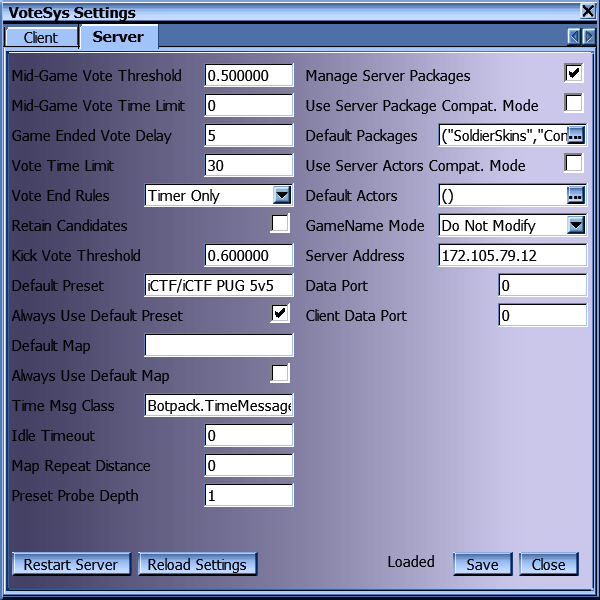
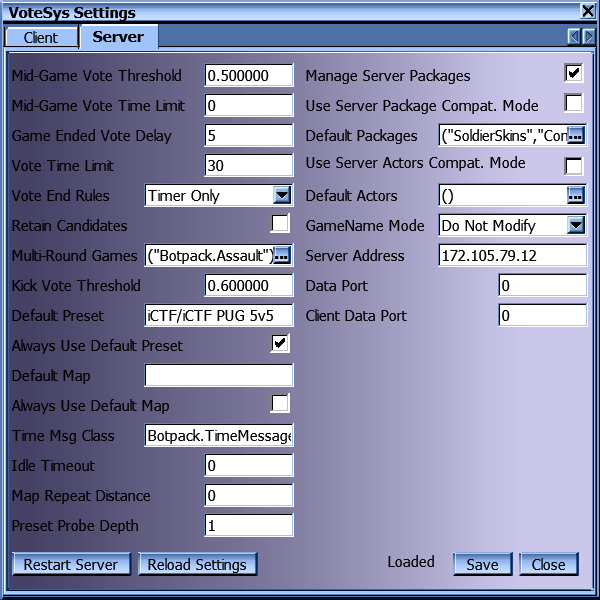
Add Setting MultiRoundGameModes (#25)

diff --git a/README.md b/README.md
@@ -61,6 +61,7 @@ MidGameVoteThreshold=0.5
 MidGameVoteTimeLimit=30
 VoteEndCondition=VEC_TimerOnly
 bRetainCandidates=False
+MultiRoundGameModes=Botpack.Assault
 MinimumMapRepeatDistance=0
 KickVoteThreshold=0.6
 DefaultTimeMessageClass=Botpack.TimeMessage
@@ -98,6 +99,7 @@ DefaultActors=IpServer.UdpServerUplink MasterServerAddress=unreal.epicgames.com 
 1. [MidGameVoteTimeLimit](#midgamevotetimelimit)
 1. [VoteEndCondition](#voteendcondition)
 1. [bRetainCandidates](#bretaincandidates)
+1. [MultiRoundGameModes](#multiroundgamemodes)
 1. [MinimumRepeatDistance](#minimumrepeatdistance)
 1. [KickVoteThreshold](#kickvotethreshold)
 1. [DefaultTimeMessageClass](#defaulttimemessageclass)
@@ -159,6 +161,14 @@ Defaults to `VEC_TimerOnly`.
 If true, candidates that no longer have any votes for them get retained. If false, candidates with no votes disappear from the list.
 
 Defaults to false.
+
+#### MultiRoundGameModes
+
+List of game modes that are played over multiple rounds with restarts in between. You can specify either the full name of the gamemode class (Package.ClassName), or just the name of the class.
+
+VoteSys will not detect end of game until `bDontRestart` is set to `True` on the GameInfo object.
+
+List contains "Botpack.Assault" by default.
 
 #### MinimumRepeatDistance
 
